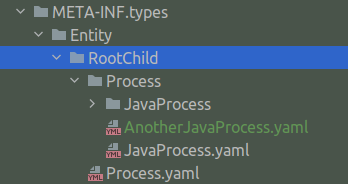
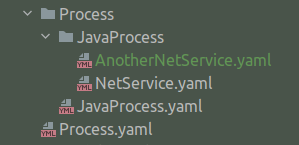
RDAPI-21835 doc(): update after MR

Changed region(s): [[0.0, 0.0276, 1.0, 0.4966], [0.1204, 0.5241, 0.903, 0.9931]]

diff --git a/content/en/docs/apim_yamles/apim_yamles_references/yamles_types.md b/content/en/docs/apim_yamles/apim_yamles_references/yamles_types.md
@@ -6,11 +6,11 @@
 "description": "Learn how entity types are described in a YAML configuration."
 }
 
-The `types` folder located under the `META-INF` directory of a YAML configuration contains the definition of all the entity types in the Entity Store model. An [entity type](/docs/apigtw_devguide/entity_store/#entity-types) is a description of an entity in the Entity Store.
+The `types` directory located under the `META-INF` directory of a YAML configuration contains the definition of all the entity types in the Entity Store model. An [entity type](/docs/apigtw_devguide/entity_store/#entity-types) is a description of an entity in the Entity Store.
 
-The `types` folder is basically a directory tree on which relationships between types are managed in the logical manner of a directory tree.
+The `types` directory contains subdirectories organized in a hierarchical tree structure that represents the inheritance relationships between types.
 
-The YAML Entity Store supports all entity types *and* custom types.
+The YAML Entity Store supports all entity types and custom types.
 
 ## Simple type
 
@@ -102,14 +102,16 @@ And considering the following directory structure
 
 ![types example](/Images/apim_yamles/yamles_types_example.png)
 
-We could say that:
+We can say that:
 
-* As *JavaProcess.yaml* file is containing within *Process* directory: `JavaProcess` is a child type of `Process` type.
-* As *NetService.yaml* file is containing within *JavaProcess* directory: `NetService` is a child type of `JavaProcess` type.
+* As `JavaProcess.yaml` file is contained within `Process` directory: `JavaProcess` is a child type of `Process` type.
+* As `NetService.yaml` file is contained within `JavaProcess` directory: `NetService` is a child type of `JavaProcess` type.
 
 ## Custom types
 
-Custom types can be added by providing a yaml file definition of an entity type, and put in the right directory.
+Custom types can be added by creating a YAML file definition of an entity type, and placing it in the correct subdirectory under `META-INF/types`.
+
+An example of creating entity type named `AnotherNetService`:
 
 ```yaml
 name: AnotherNetService
@@ -131,7 +133,15 @@ components:
 
 ![types example](/Images/apim_yamles/yamles_types_custom_example.png)
 
-Looking at directory structure, *AnotherNetService.yaml* is containing inside *JavaProcess* directory. It means that `AnotherNetService` type is a child of `JavaProcess` type.
+In the example directory structure above, `AnotherNetService.yaml` is contained inside the `JavaProcess` directory. This means that `AnotherNetService` type is a child type of the `JavaProcess` type.
+
+{{% pageinfo color="primary" %}}
+If the type you inherit from does not have any child yet, create a directory named as the parent type name (without *yaml* extension) aside of the parent type definition. You can then put your custom type within the newly created directory.
+{{% /pageinfo %}}
+
+{{% pageinfo color="primary" %}}
+Entity instances of custom types must be put in `System` directory. Refer to [Directory Mapping](/docs/apim_yamles/apim_yamles_references/yamles_top_directories) for more informations.
+{{% /pageinfo %}}
 
 ## Cardinality
 
@@ -141,19 +151,3 @@ Looking at directory structure, *AnotherNetService.yaml* is containing inside *J
 |   +    |  1  |  ∞  |    Yes (if no default value) |
 |   ?    |  0  |  1  |    No     |
 |   *    |  0  |  ∞  |    No     |
-
-## Navigate in types directory
-
-To create a `NetService` type
-
-* Identify under which directory the *NetService.yaml* file should be put in.
-* If the type you inherit from does not have any child, create a directory named as the type name (without *yaml* extension) aside of the parent type definition
-* Put the *NetService.yaml* under the folder identified above. Make sure that the type name within the file matches the filename without *yaml* extension
-* In order to know what fields can be used, move up the types hierarchy.
-* add your own custom fields if you need to
-* Search for components in the directory tree (note that some can be defined in the ancestor).
-* `NetService` has two components.
-    * Search for `"name: LoadableModule"` and/or for `"name: ClassLoader"`.
-    * Do first steps again to get all required and optional fields for each entity type.
-
-{{% alert color="warning" %}}Despite what is in the model, some fields are said to be mandatory (cardinality=1 and no default value) are not mandatory. Double check with Policy Studio if in doubt.{{% /alert %}}

diff --git a/content/en/docs/apim_yamles/yamles_structure.md b/content/en/docs/apim_yamles/yamles_structure.md
@@ -52,7 +52,7 @@ The root entity has many direct children. To sort them out, a first level of hie
 
 ### META-INF
 
-The META-INF folder contains the `types` directory. This directory contains the definition of all the entity types in the entity store model. This it is where you can find useful information about the fields you can use for an [entity type](/docs/apim_yamles/apim_yamles_references/yamles_types).
+The META-INF folder contains the `types` directory. This directory contains the definition of all the entity types in the entity store model. This is where you can find useful information about the fields you can use for an [entity type](/docs/apim_yamles/apim_yamles_references/yamles_types).
 
 ### _parent.yaml
 

diff --git a/content/en/docs/apim_yamles/apim_yamles_references/yamles_top_directories.md b/content/en/docs/apim_yamles/apim_yamles_references/yamles_top_directories.md
@@ -96,3 +96,4 @@ The Mapping is presented as such:
 ## System
 
 * Any other types (children of Root)
+* Any custom types
